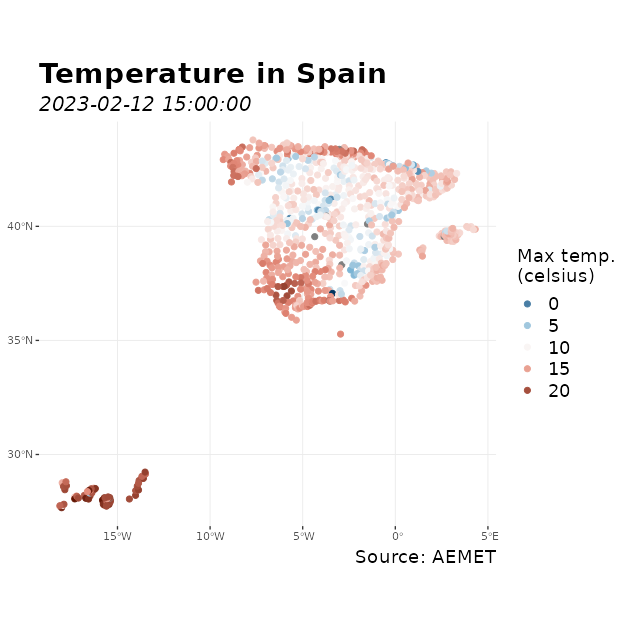
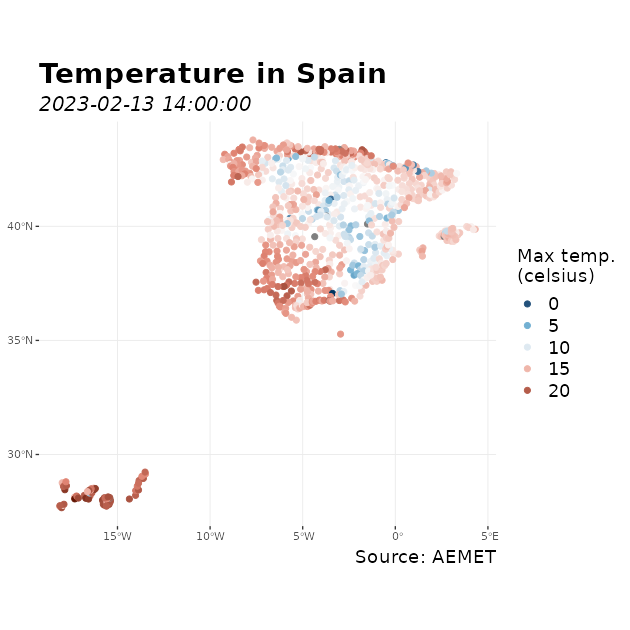
Update docs

diff --git a/README.md b/README.md
@@ -120,20 +120,20 @@ library(climaemet)
 # See a tibble in action
 
 aemet_last_obs("9434")
-#> # A tibble: 24 × 25
+#> # A tibble: 23 × 25
 #>    idema   lon fint                 prec   alt  vmax    vv    dv   lat  dmax
 #>    <chr> <dbl> <dttm>              <dbl> <dbl> <dbl> <dbl> <dbl> <dbl> <dbl>
-#>  1 9434  -1.00 2023-02-12 15:00:00     0   249   5.9   4     131  41.7   125
-#>  2 9434  -1.00 2023-02-12 16:00:00     0   249   5.8   3.7   127  41.7   128
-#>  3 9434  -1.00 2023-02-12 17:00:00     0   249   5.4   2.6   106  41.7   130
-#>  4 9434  -1.00 2023-02-12 18:00:00     0   249   3.3   2.4   125  41.7   148
-#>  5 9434  -1.00 2023-02-12 19:00:00     0   249   3.5   1.7   148  41.7   140
-#>  6 9434  -1.00 2023-02-12 20:00:00     0   249   1.8   1.2   112  41.7    98
-#>  7 9434  -1.00 2023-02-12 21:00:00     0   249   1.4   0.7   148  41.7    75
-#>  8 9434  -1.00 2023-02-12 22:00:00     0   249   2.2   0.6    71  41.7   195
-#>  9 9434  -1.00 2023-02-12 23:00:00     0   249   2.7   1.9   159  41.7   128
-#> 10 9434  -1.00 2023-02-13 00:00:00     0   249   3.4   1.7   127  41.7   120
-#> # … with 14 more rows, and 15 more variables: ubi <chr>, pres <dbl>, hr <dbl>,
+#>  1 9434  -1.00 2023-02-13 14:00:00     0   249   5.9   3.5   122  41.7   118
+#>  2 9434  -1.00 2023-02-13 15:00:00     0   249   6.5   3.3   116  41.7   108
+#>  3 9434  -1.00 2023-02-13 16:00:00     0   249   6.6   3.2   141  41.7   123
+#>  4 9434  -1.00 2023-02-13 17:00:00     0   249   5.5   3.5   140  41.7   130
+#>  5 9434  -1.00 2023-02-13 18:00:00     0   249   5     2      99  41.7   125
+#>  6 9434  -1.00 2023-02-13 19:00:00     0   249   4.9   0.9   106  41.7   345
+#>  7 9434  -1.00 2023-02-13 20:00:00     0   249   1.1   0.6   269  41.7   275
+#>  8 9434  -1.00 2023-02-13 21:00:00     0   249   1.8   1.4   189  41.7   195
+#>  9 9434  -1.00 2023-02-13 22:00:00     0   249   1.5   1     224  41.7   190
+#> 10 9434  -1.00 2023-02-13 23:00:00     0   249   2     0.7   173  41.7   185
+#> # … with 13 more rows, and 15 more variables: ubi <chr>, pres <dbl>, hr <dbl>,
 #> #   stdvv <dbl>, ts <dbl>, pres_nmar <dbl>, tamin <dbl>, ta <dbl>, tamax <dbl>,
 #> #   tpr <dbl>, stddv <dbl>, inso <dbl>, tss5cm <dbl>, pacutp <dbl>,
 #> #   tss20cm <dbl>
@@ -170,14 +170,14 @@ data_observation <- aemet_last_obs(station)
 knitr::kable(head(data_observation))
 ```
 
-| idema |       lon | fint                | prec | alt | vmax |  vv |  dv |      lat | dmax | ubi                 |   pres |  hr | stdvv |   ts | pres_nmar | tamin |   ta | tamax |  tpr | stddv | inso | tss5cm | pacutp | tss20cm |
-|:------|----------:|:--------------------|-----:|----:|-----:|----:|----:|---------:|-----:|:--------------------|-------:|----:|------:|-----:|----------:|------:|-----:|------:|-----:|------:|-----:|-------:|-------:|--------:|
-| 9434  | -1.004167 | 2023-02-12 15:00:00 |    0 | 249 |  5.9 | 4.0 | 131 | 41.66056 |  125 | ZARAGOZA AEROPUERTO | 1001.9 |  50 |   0.7 | 12.6 |    1032.7 |  10.7 | 11.1 |  11.1 |  1.1 |    13 | 60.0 |   10.0 |      0 |     6.1 |
-| 9434  | -1.004167 | 2023-02-12 16:00:00 |    0 | 249 |  5.8 | 3.7 | 127 | 41.66056 |  128 | ZARAGOZA AEROPUERTO | 1001.6 |  43 |   0.6 | 12.1 |    1032.4 |  11.0 | 11.2 |  11.3 | -1.0 |    11 | 60.0 |   10.0 |      0 |     6.6 |
-| 9434  | -1.004167 | 2023-02-12 17:00:00 |    0 | 249 |  5.4 | 2.6 | 106 | 41.66056 |  130 | ZARAGOZA AEROPUERTO | 1001.8 |  42 |   0.3 |  9.3 |    1032.6 |  10.3 | 10.3 |  11.3 | -2.0 |     8 | 60.0 |    9.5 |      0 |     7.1 |
-| 9434  | -1.004167 | 2023-02-12 18:00:00 |    0 | 249 |  3.3 | 2.4 | 125 | 41.66056 |  148 | ZARAGOZA AEROPUERTO | 1002.1 |  58 |   0.2 |  6.0 |    1033.2 |   7.5 |  7.5 |  10.3 | -0.3 |     5 | 21.1 |    8.5 |      0 |     7.4 |
-| 9434  | -1.004167 | 2023-02-12 19:00:00 |    0 | 249 |  3.5 | 1.7 | 148 | 41.66056 |  140 | ZARAGOZA AEROPUERTO | 1002.5 |  63 |   0.3 |  4.9 |    1033.7 |   6.4 |  6.4 |   7.5 |  0.0 |     9 |  0.0 |    7.6 |      0 |     7.6 |
-| 9434  | -1.004167 | 2023-02-12 20:00:00 |    0 | 249 |  1.8 | 1.2 | 112 | 41.66056 |   98 | ZARAGOZA AEROPUERTO | 1002.9 |  70 |   0.4 |  1.5 |    1034.3 |   4.7 |  4.7 |   6.4 | -0.3 |    16 |  0.0 |    6.8 |      0 |     7.6 |
+| idema |       lon | fint                | prec | alt | vmax |  vv |  dv |      lat | dmax | ubi                 |   pres |  hr | stdvv |   ts | pres_nmar | tamin |   ta | tamax | tpr | stddv | inso | tss5cm | pacutp | tss20cm |
+|:------|----------:|:--------------------|-----:|----:|-----:|----:|----:|---------:|-----:|:--------------------|-------:|----:|------:|-----:|----------:|------:|-----:|------:|----:|------:|-----:|-------:|-------:|--------:|
+| 9434  | -1.004167 | 2023-02-13 14:00:00 |    0 | 249 |  5.9 | 3.5 | 122 | 41.66056 |  118 | ZARAGOZA AEROPUERTO | 1003.3 |  54 |   0.6 | 13.8 |    1034.0 |  10.0 | 11.6 |  11.7 | 2.7 |    14 | 60.0 |    9.7 |      0 |     5.8 |
+| 9434  | -1.004167 | 2023-02-13 15:00:00 |    0 | 249 |  6.5 | 3.3 | 116 | 41.66056 |  108 | ZARAGOZA AEROPUERTO | 1003.0 |  50 |   0.9 | 14.1 |    1033.6 |  11.6 | 12.6 |  12.6 | 2.5 |    18 | 60.0 |   10.3 |      0 |     6.3 |
+| 9434  | -1.004167 | 2023-02-13 16:00:00 |    0 | 249 |  6.6 | 3.2 | 141 | 41.66056 |  123 | ZARAGOZA AEROPUERTO | 1002.8 |  47 |   0.7 | 13.7 |    1033.4 |  12.6 | 12.8 |  12.9 | 1.7 |    15 | 60.0 |   10.4 |      0 |     6.8 |
+| 9434  | -1.004167 | 2023-02-13 17:00:00 |    0 | 249 |  5.5 | 3.5 | 140 | 41.66056 |  130 | ZARAGOZA AEROPUERTO | 1002.8 |  51 |   0.6 | 11.0 |    1033.5 |  11.8 | 11.8 |  12.9 | 1.9 |     8 | 60.0 |   10.0 |      0 |     7.2 |
+| 9434  | -1.004167 | 2023-02-13 18:00:00 |    0 | 249 |  5.0 | 2.0 |  99 | 41.66056 |  125 | ZARAGOZA AEROPUERTO | 1003.2 |  58 |   0.5 |  8.0 |    1034.0 |   9.6 | 11.3 |  11.8 | 3.4 |    68 | 23.2 |    9.2 |      0 |     7.6 |
+| 9434  | -1.004167 | 2023-02-13 19:00:00 |    0 | 249 |  4.9 | 0.9 | 106 | 41.66056 |  345 | ZARAGOZA AEROPUERTO | 1003.4 |  65 |   0.3 |  5.2 |    1034.4 |   8.3 |  8.3 |  12.4 | 2.1 |    34 |  0.0 |    8.3 |      0 |     7.8 |
 
 ``` r
 
